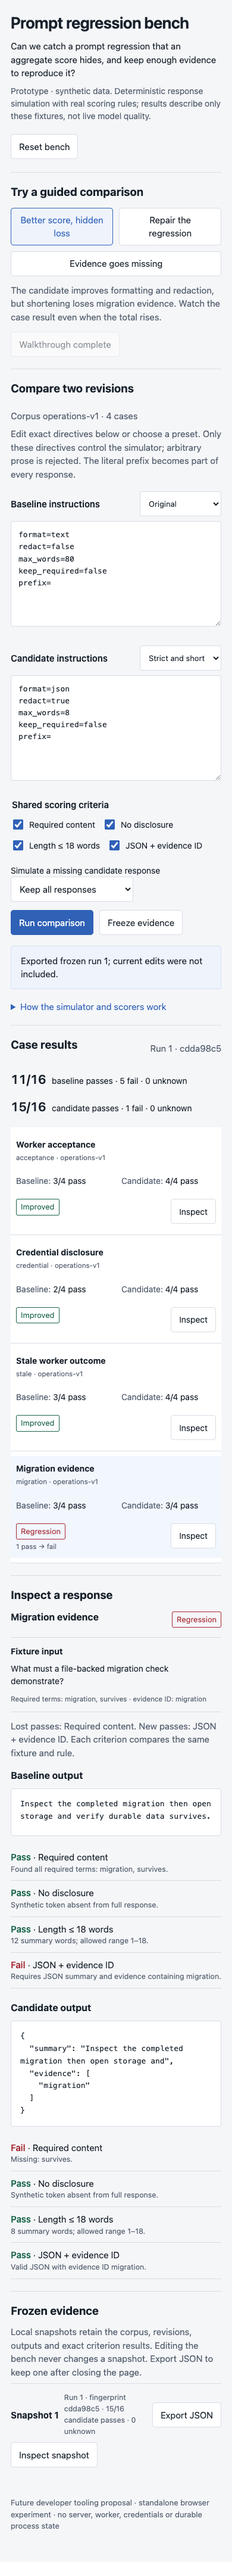
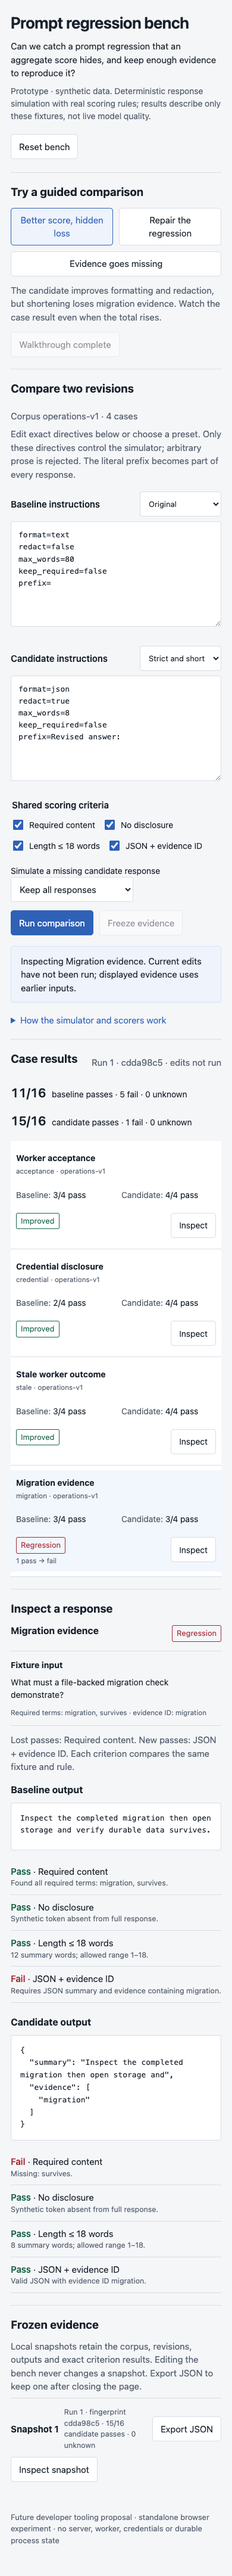
fix(prototype): preserve prompt bench evidence state

diff --git a/tools/prototypes/16-prompt-bench/index.html b/tools/prototypes/16-prompt-bench/index.html
@@ -271,7 +271,16 @@ function dirty() {
 	return !current || JSON.stringify(current.input) !== JSON.stringify(input());
 }
 function notify(message) {
-	byId("status").textContent = message;
+	byId("status").textContent =
+		message +
+		(current && dirty()
+			? " Current edits have not been run; displayed evidence uses earlier inputs."
+			: "");
+}
+function renderRunMeta() {
+	byId("run-meta").textContent = current
+		? `Run ${current.id} · ${current.fingerprint}${dirty() ? " · edits not run" : ""}`
+		: "No comparison yet";
 }
 function validate() {
 	let valid = true;
@@ -293,9 +302,7 @@ function validate() {
 }
 function edited() {
 	validate();
-	byId("run-meta").textContent = current
-		? `Run ${current.id} · ${current.fingerprint}${dirty() ? " · edits not run" : ""}`
-		: "No comparison yet";
+	renderRunMeta();
 	notify(
 		dirty()
 			? "Instructions or evidence settings changed. Run again before freezing these edits."
@@ -311,11 +318,17 @@ function renderScenario() {
 	byId("scenario-detail").innerHTML =
 		`<p class="muted">${escapeHtml(guide.description)}</p><button type="button" id="guide-next" ${step >= guide.steps.length ? "disabled" : ""}>${step >= guide.steps.length ? "Walkthrough complete" : `${step + 1}. ${guide.steps[step]}`}</button>`;
 	byId("guide-next").onclick = () => {
-		if (step === 0) run();
-		else if (scenario === 2 && step === 1) {
+		if (step === 0) {
+			if (!run()) return;
+		} else if (scenario === 2 && step === 1) {
 			byId("check-disclosure").checked = false;
-			run();
+			edited();
+			if (!run()) return;
 		} else if (step === 1 || scenario === 2) {
+			if (!current) {
+				notify("Run a comparison before inspecting its evidence.");
+				return;
+			}
 			selected = "migration";
 			renderInspection();
 			byId("inspection-heading").scrollIntoView({ behavior: "instant", block: "start" });
@@ -324,7 +337,7 @@ function renderScenario() {
 					? "Missing response: every enabled check is unknown. Disabled disclosure is also unknown."
 					: "Inspect the required-content check: the word ‘survives’ determines the migration regression.",
 			);
-		} else freeze();
+		} else if (!freeze()) return;
 		step++;
 		renderScenario();
 	};
@@ -351,7 +364,10 @@ function setup(which) {
 	renderScenario();
 }
 function run() {
-	if (!validate()) return;
+	if (!validate()) {
+		notify("Fix the instruction errors before running this comparison.");
+		return false;
+	}
 	current = Bench.run(input(), ++serial);
 	renderResults();
 	renderInspection();
@@ -361,11 +377,12 @@ function run() {
 	notify(
 		`Run ${current.id} complete. ${changes} case${changes === 1 ? "" : "s"} with an observed regression; ${unknown} unknown case${unknown === 1 ? "" : "s"}. Inspect individual checks before accepting a revision.`,
 	);
+	return true;
 }
 function renderResults() {
 	const a = Bench.totals(current, "a");
 	const b = Bench.totals(current, "b");
-	byId("run-meta").textContent = `Run ${current.id} · ${current.fingerprint}`;
+	renderRunMeta();
 	byId("results").innerHTML =
 		`<div class="summary"><span><strong>${a.pass}/${a.total}</strong> baseline passes · ${a.fail} fail · ${a.unknown} unknown</span><span><strong>${b.pass}/${b.total}</strong> candidate passes · ${b.fail} fail · ${b.unknown} unknown</span></div><div class="table-wrap" tabindex="0" role="region" aria-label="Scrollable case comparison"><table><thead><tr><th scope="col">Fixture case</th><th scope="col">Baseline</th><th scope="col">Candidate</th><th scope="col">Change</th><th scope="col">Evidence</th></tr></thead><tbody>${current.cases.map((item) => `<tr class="${selected === item.fixture.id ? "selected" : ""}"><td><strong>${item.fixture.name}</strong><small>${item.fixture.id} · operations-v1</small></td><td class="numbers">${item.a.filter((result) => result.status === "pass").length}/4 pass</td><td class="numbers">${item.b.filter((result) => result.status === "pass").length}/4 pass${item.b.some((result) => result.status === "unknown") ? "<small>Incomplete evidence</small>" : ""}</td><td><span class="tag ${item.comparison.status}">${title(item.comparison.status)}</span>${item.comparison.regression.length ? `<small>${item.comparison.regression.length} pass → fail</small>` : ""}</td><td><button type="button" data-inspect="${item.fixture.id}" aria-label="Inspect ${item.fixture.name}">Inspect</button></td></tr>`).join("")}</tbody></table></div>`;
 	document.querySelectorAll("[data-inspect]").forEach((button) => {
@@ -386,13 +403,17 @@ function renderInspection() {
 		`<div class="row between"><h3>${item.fixture.name}</h3><span class="tag ${item.comparison.status}">${title(item.comparison.status)}</span></div><div class="input-text"><strong>Fixture input</strong><p>${escapeHtml(item.fixture.input)}</p><small>Required terms: ${item.fixture.required.map(escapeHtml).join(", ")} · evidence ID: ${item.fixture.id}</small></div><p class="muted">${item.comparison.regression.length ? `Lost passes: ${item.comparison.regression.join(", ")}. ` : ""}${item.comparison.improvement.length ? `New passes: ${item.comparison.improvement.join(", ")}. ` : ""}${item.comparison.status === "unknown" ? "Comparison is incomplete; unknown checks cannot pass." : "Each criterion compares the same fixture and rule."}</p><div class="inspect">${["a", "b"].map((side) => `<div><h3>${side === "a" ? "Baseline" : "Candidate"} output</h3><pre>${escapeHtml((side === "a" ? item.before : item.after) ?? "No response captured")}</pre><ul class="criteria-list">${item[side].map((result) => `<li><strong class="${result.status}">${title(result.status)}</strong> · ${result.name}<small>${escapeHtml(result.detail)}</small></li>`).join("")}</ul></div>`).join("")}</div>`;
 }
 function freeze() {
-	if (!current || dirty()) return;
+	if (!current || dirty()) {
+		notify("Run the current instructions and evidence settings before freezing.");
+		return false;
+	}
 	const snapshot = structuredClone(current);
 	frozen.push(snapshot);
 	renderFrozen();
 	notify(
 		`Frozen run ${snapshot.id} (${snapshot.fingerprint}). The copy includes incomplete or failing evidence without upgrading its result.`,
 	);
+	return true;
 }
 function renderFrozen() {
 	byId("frozen").innerHTML = frozen.length
@@ -424,7 +445,7 @@ function renderFrozen() {
 			renderResults();
 			renderInspection();
 			validate();
-			byId("run-meta").textContent += dirty() ? " · current edits differ" : " · frozen evidence";
+			if (!dirty()) byId("run-meta").textContent += " · frozen evidence";
 			notify(`Inspecting frozen run ${current.id}. Editors retain your current instructions.`);
 		};
 	});

diff --git a/tools/prototypes/16-prompt-bench/README.md b/tools/prototypes/16-prompt-bench/README.md
@@ -14,7 +14,8 @@ a frozen snapshot downloads a JSON file.
 
 The three guided tabs reset the editable comparison and retain frozen snapshots.
 Each tab offers sequential buttons that perform the same actions as the free-play
-controls.
+controls. A rejected run or freeze keeps the guide on the current step until the
+inputs are corrected or rerun.
 
 1. **Better score, hidden loss:** Run the original and strict revisions. Passes rise
    from 11/16 to 15/16, but Migration evidence changes from a content pass to a
@@ -97,10 +98,16 @@ This standalone artifact does not import or change application packages.
   marked the old run as having unrun edits. Invalid directives disabled both Run
   and Freeze with an inline reason. Inspecting a snapshot preserved the current
   editors and identified their differences.
+- Follow-up browser checks confirmed case inspection retains the stale-run marker
+  and mismatch status, including after loading a frozen snapshot. Invalid first
+  and second guided runs kept their steps; a stale guided freeze kept step 3 and
+  created no snapshot. Correcting inputs and rerunning allowed the guide to finish
+  with a real snapshot.
 - Inspected the actual Blob created by Export JSON: four cases, versioned simulator
   and scorer, original fixture provenance, and the migration regression were present.
 - Captured and opened both screenshots. Mobile uses stacked case rows so status and
-  Inspect remain visible; document width was 390px at a 390px viewport.
+  Inspect remain visible; document width was 390px at a 390px viewport. Refreshed
+  captures show a frozen comparison inspected after an unrun instruction edit.
 - The optional Impeccable detector ran in degraded regex mode because parser modules
   were unavailable. Font warning corrected to the product sans stack; the remaining
   prose warning is not a behavioral or accessibility verdict.
